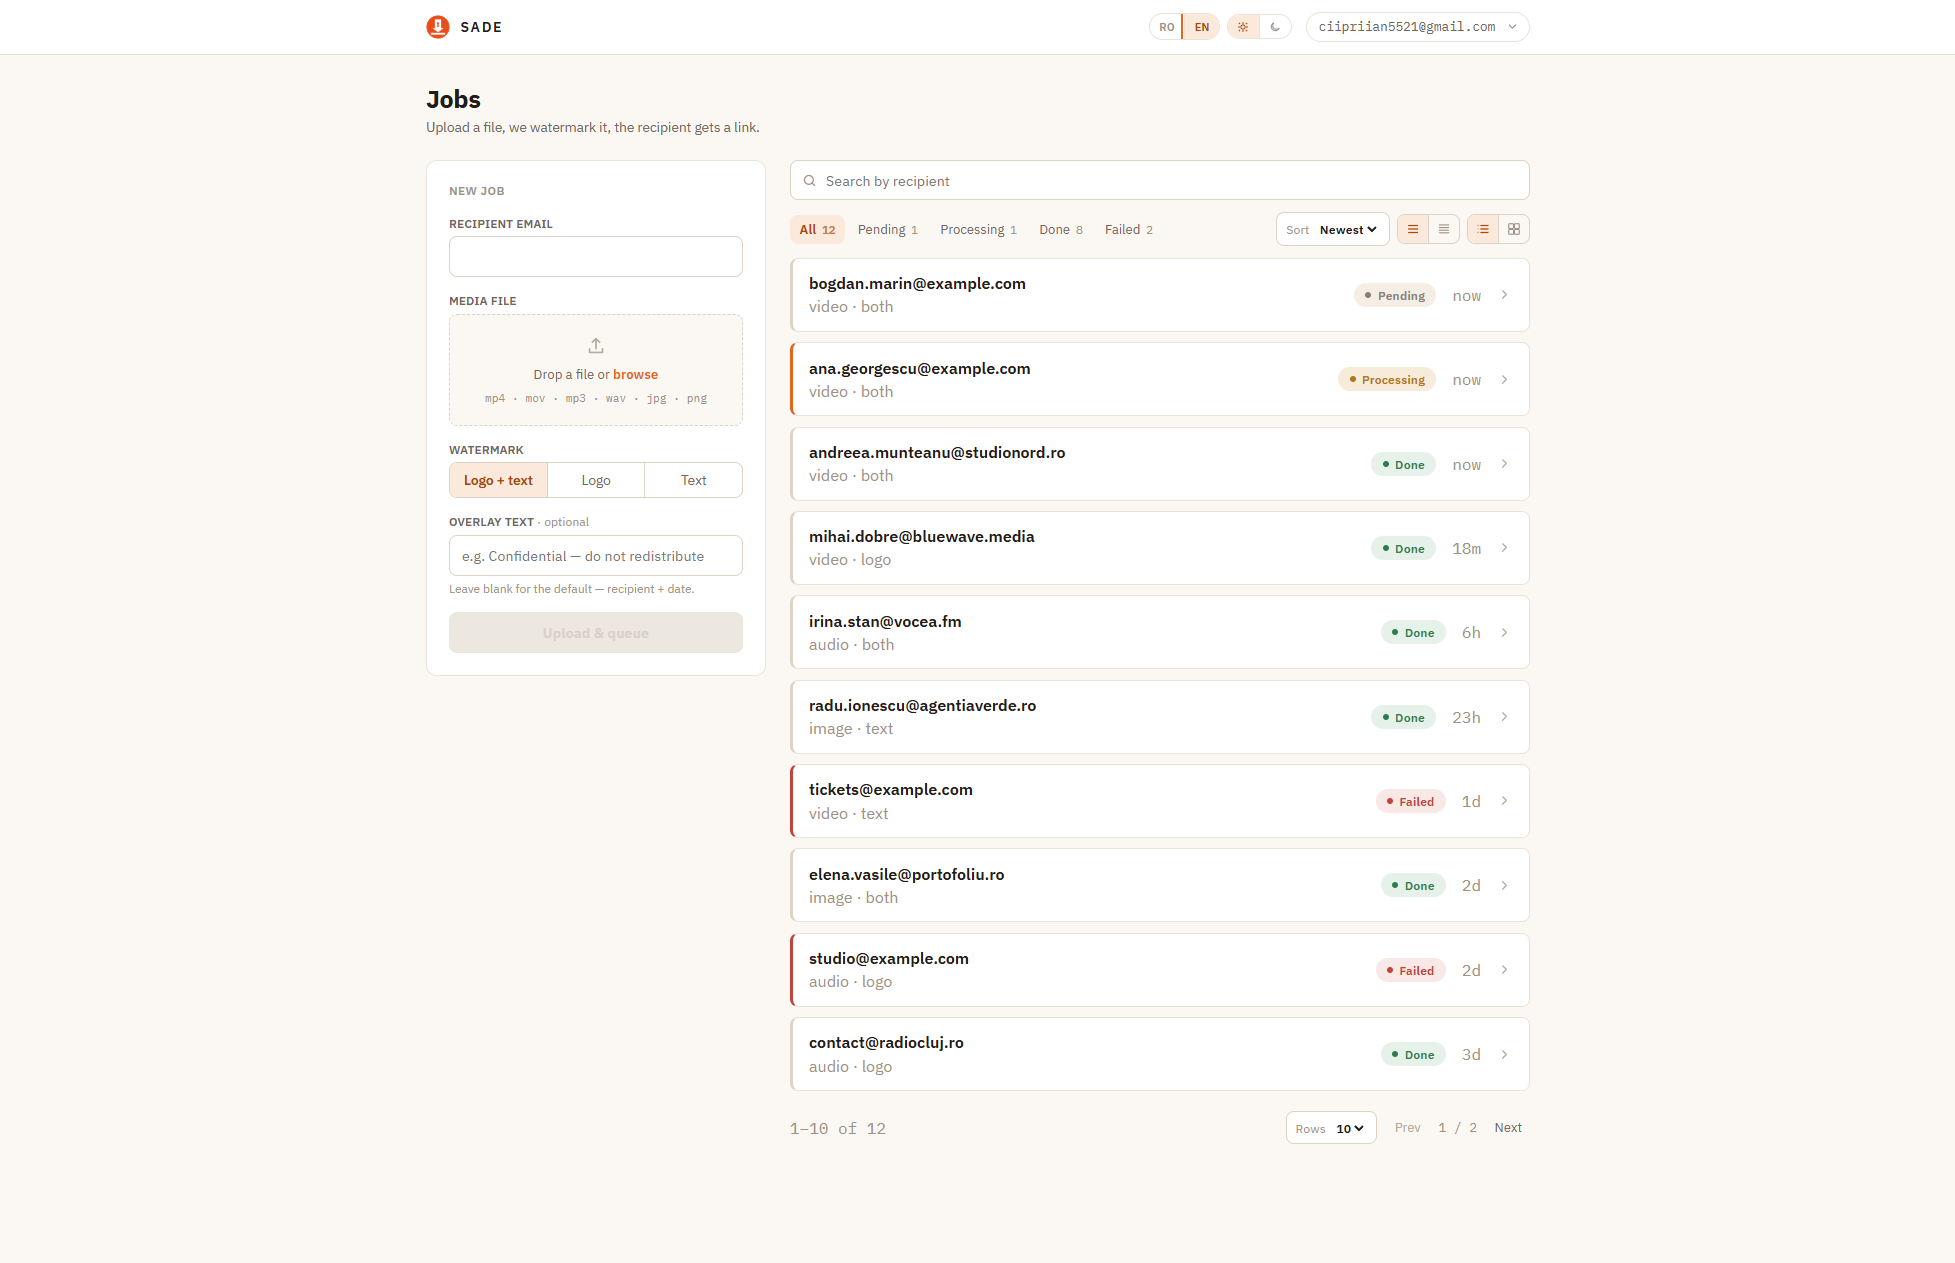
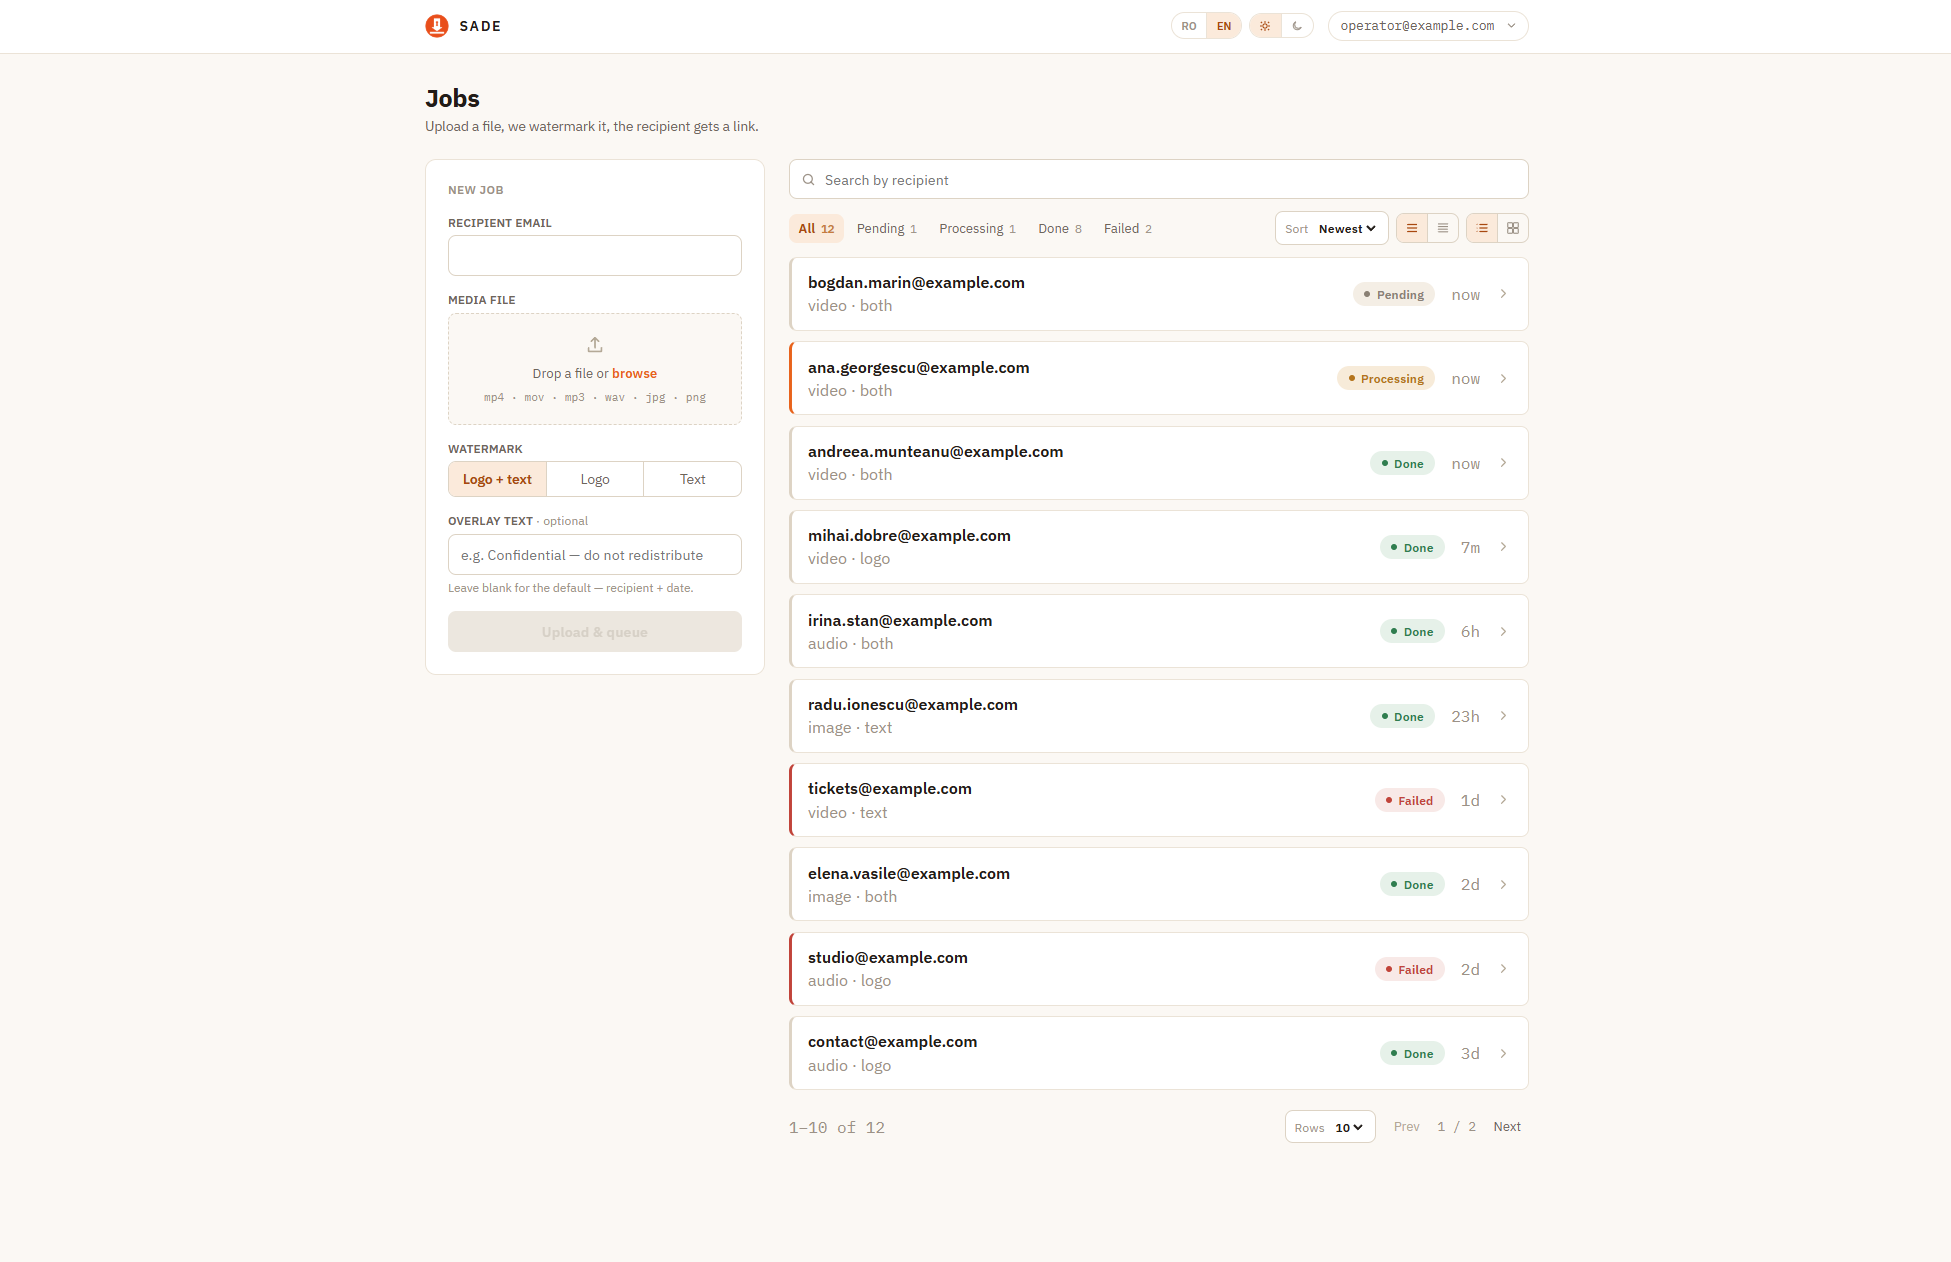
docs: retake screenshots with the sample video, add the unlocked state

diff --git a/CLAUDE.md b/CLAUDE.md
@@ -159,7 +159,9 @@ Nothing left unstarted at the domain level — every table in the schema is wire
 `MAILER_TRANSPORT=log` and `APP_PUBLIC_URL`/`AUTH_SESSION_COOKIE_SECURE` overridden via process
 env, which `godotenv` never clobbers, so `.env`'s tunnel values stayed untouched) and embedded in
 `README.md`'s new "Screenshots" section: `docs/dashboard.png`, `docs/job.png` (job detail),
-`docs/preview.png` (recipient `/preview/[token]` page with the Stripe Payment Element).
+`docs/preview.png` (recipient `/preview/[token]` page with the Stripe Payment Element), and
+`docs/unlocked.png` (the same page after payment, "Download the original"). Retaken after the seed switched
+its video jobs to `docs/test.mp4` and every address to `@example.com`.
 
 **Last shipped:** HTTPS. The user's report was the browser's "conexiune nesecurizată" on
 `http://192.168.1.179:8080` (the LAN address the app had been demoed from). The TLS listener

diff --git a/README.md b/README.md
@@ -29,6 +29,11 @@ to unlock the clean original.
 
 ![Recipient preview](docs/preview.png)
 
+**Original unlocked** — the same page once the payment clears: the recipient
+gets a download of the clean, unwatermarked original.
+
+![Original unlocked](docs/unlocked.png)
+
 ## Architecture at a glance
 
 - **Backend**: Go, no ORM. `internals/database` wraps two libraries over the
